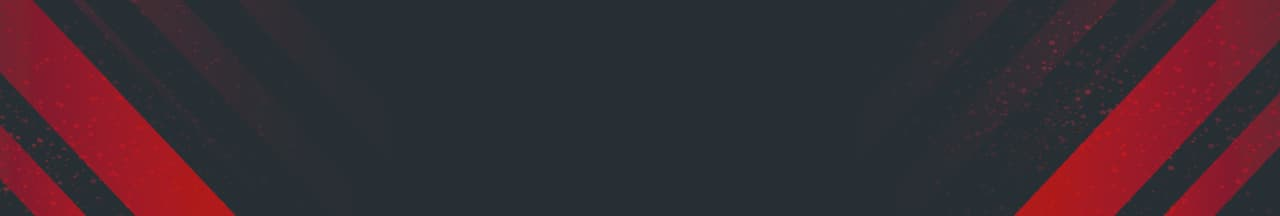
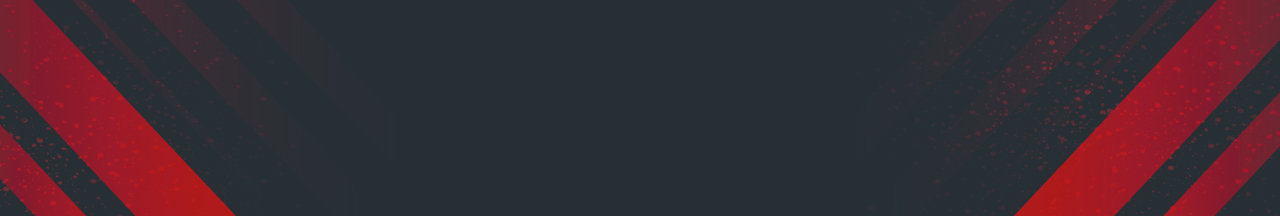
Preloader
Додав прилоадер. Оновив зображення хедера.

Changed region(s): [[0.0, 0.6667, 0.0312, 0.6944]]

diff --git a/src/index.html b/src/index.html
@@ -1,87 +1,106 @@
 <!DOCTYPE html>
 <html lang="en">
+  <head>
+    <meta charset="UTF-8" />
+    <meta http-equiv="X-UA-Compatible" content="IE=edge" />
 
-<head>
-  <meta charset="UTF-8" />
-  <meta http-equiv="X-UA-Compatible" content="IE=edge" />
+    <meta http-equiv="Permissions-Policy" content="interest-cohort=()" />
 
-  <meta http-equiv="Permissions-Policy" content="interest-cohort=()" />
+    <meta name="viewport" content="width=device-width, initial-scale=1.0" />
+    <title class="lng-logo">Filmoteka</title>
 
-  <meta name="viewport" content="width=device-width, initial-scale=1.0" />
-  <title class="lng-logo">Filmoteka</title>
+    <!-- Favicon -->
+    <link rel="shortcut icon" href="./images/icon/favico-2.png" />
 
-  <!-- Favicon -->
-  <link rel="shortcut icon" href="./images/icon/favico-2.png" />
+    <!-- Normalize -->
+    <link
+      rel="stylesheet"
+      href="https://cdnjs.cloudflare.com/ajax/libs/modern-normalize/1.1.0/modern-normalize.min.css"
+    />
 
-  <!-- Normalize -->
-  <link rel="stylesheet"
-    href="https://cdnjs.cloudflare.com/ajax/libs/modern-normalize/1.1.0/modern-normalize.min.css" />
+    <!-- Animate.css -->
+    <link
+      rel="stylesheet"
+      href="https://cdnjs.cloudflare.com/ajax/libs/animate.css/4.1.1/animate.min.css"
+    />
 
-  <!-- Animate.css -->
-  <link rel="stylesheet" href="https://cdnjs.cloudflare.com/ajax/libs/animate.css/4.1.1/animate.min.css" />
+    <!-- cssanimation.io -->
+    <link
+      href="https://cdn.jsdelivr.net/gh/yesiamrocks/cssanimation.io@1.0.3/cssanimation.min.css"
+      rel="stylesheet"
+    />
 
-  <!-- cssanimation.io -->
-  <link href="https://cdn.jsdelivr.net/gh/yesiamrocks/cssanimation.io@1.0.3/cssanimation.min.css" rel="stylesheet" />
+    <!-- FontAwesome, чтобы можно было использовать значок для нашей Back to top button -->
+    <link
+      rel="stylesheet"
+      href="https://maxcdn.bootstrapcdn.com/font-awesome/4.5.0/css/font-awesome.min.css"
+    />
 
-  <!-- FontAwesome, чтобы можно было использовать значок для нашей Back to top button -->
-  <link rel="stylesheet" href="https://maxcdn.bootstrapcdn.com/font-awesome/4.5.0/css/font-awesome.min.css" />
+    <!-- Style basicLightbox -->
+    <link
+      rel="stylesheet"
+      href="https://cdnjs.cloudflare.com/ajax/libs/basicLightbox/5.0.4/basicLightbox.min.css"
+    />
 
-  <!-- Style basicLightbox -->
-  <link rel="stylesheet" href="https://cdnjs.cloudflare.com/ajax/libs/basicLightbox/5.0.4/basicLightbox.min.css" />
+    <link rel="stylesheet" href="./sass/main.scss" />
 
-  <link rel="stylesheet" href="./sass/main.scss" />
+    <!-- Boxicons CSS -->
+    <link
+      href="https://unpkg.com/boxicons@2.1.2/css/boxicons.min.css"
+      rel="stylesheet"
+    />
+  </head>
 
-  <!-- Boxicons CSS -->
-  <link href="https://unpkg.com/boxicons@2.1.2/css/boxicons.min.css" rel="stylesheet" />
-</head>
+  <body>
+    <!-- Прелоадер -->
+    <div id="preloader" class="visible"></div>
+    <!-- =================================================================================================-->
+    <!-- Header -->
+    <include src="./partials/home-header.html"></include>
 
-<body>
-  <!-- =================================================================================================-->
-  <!-- Header -->
-  <include src="./partials/home-header.html"></include>
+    <!-- Login -->
+    <include src="./partials/signup-modal.html"></include>
 
-  <!-- Login -->
-  <include src="./partials/signup-modal.html"></include>
+    <!-- Main -->
+    <main class="main">
+      <div class="container">
+        <!-- Slider upcoming -->
+        <include src="./partials/slider-upcoming.html"></include>
 
-  <!-- Main -->
-  <main class="main">
-    <div class="container">
-      <!-- Slider upcoming -->
-      <include src="./partials/slider-upcoming.html"></include>
-
-      <!-- Gallery -->
-      <div class="gallery-conteiner">
-        <h2 class="main-title">Популярні:</h2>
-        <div class="gallery"></div>
+        <!-- Gallery -->
+        <div class="gallery-conteiner">
+          <h2 class="main-title">Популярні:</h2>
+          <div class="gallery"></div>
+        </div>
       </div>
-    </div>
 
-    <button class="loadMoreBtn" type="button">Load more</button>
-    <button class="loadMoreSearchBtn visually-hidden" type="button">
-      Load more
-    </button>
+      <button class="loadMoreBtn" type="button">Load more</button>
+      <button class="loadMoreSearchBtn visually-hidden" type="button">
+        Load more
+      </button>
 
-    <!-- Pagination -->
-    <div id="pagination" class="tui-pagination"></div>
-  </main>
+      <!-- Pagination -->
+      <div id="pagination" class="tui-pagination"></div>
+    </main>
 
-  <!-- Footer -->
-  <include src="./partials/footer.html"></include>
+    <!-- Footer -->
+    <include src="./partials/footer.html"></include>
 
-  <!-- Modal -->
-  <div class="backdrop is-hidden" data-modal></div>
+    <!-- Modal -->
+    <div class="backdrop is-hidden" data-modal></div>
 
-  <!-- Back to top button -->
-  <a id="back-to-top"></a>
-  <!-- ================================================================================================== -->
+    <!-- Back to top button -->
+    <a id="back-to-top"></a>
+    <!-- ================================================================================================== -->
 
-  <!-- cssanimation.io -->
-  <script type="text/javascript"
-    src="https://cdn.jsdelivr.net/gh/yesiamrocks/cssanimation.io@1.0.3/letteranimation.min.js"></script>
+    <!-- cssanimation.io -->
+    <script
+      type="text/javascript"
+      src="https://cdn.jsdelivr.net/gh/yesiamrocks/cssanimation.io@1.0.3/letteranimation.min.js"
+    ></script>
 
-  <!-- jQuery library for "Back to top" button -->
-  <script src="https://ajax.googleapis.com/ajax/libs/jquery/3.6.0/jquery.min.js"></script>
-  <script src="index.js" type="module"></script>
-</body>
-
+    <!-- jQuery library for "Back to top" button -->
+    <script src="https://ajax.googleapis.com/ajax/libs/jquery/3.6.0/jquery.min.js"></script>
+    <script src="index.js" type="module"></script>
+  </body>
 </html>

diff --git a/src/sass/components/_preloader.scss b/src/sass/components/_preloader.scss
@@ -1,0 +1,24 @@
+#preloader {
+  position: fixed;
+  left: 0;
+  top: 0;
+  z-index: 999;
+  width: 100%;
+  height: 100%;
+  overflow: visible;
+  background: #ffffff
+    url('https://powping.com/file/9c3a26bb37764d887fcef6646e4f237aa7995a2a21abdfb6e0591d87d063bc65')
+    no-repeat center center;
+}
+
+.visible {
+  visibility: visible;
+  opacity: 1;
+  transition: opacity 2s linear;
+}
+
+.hidden {
+  visibility: hidden;
+  opacity: 0;
+  transition: visibility 0s 2s, opacity 2s linear;
+}

diff --git a/src/sass/main.scss b/src/sass/main.scss
@@ -1,6 +1,7 @@
 @import './utils/variables';
 @import './utils/placeholders';
 @import './base/common';
+@import './components/preloader';
 @import './components/page-header';
 @import './components/fullscreen-btn';
 @import './components/library-header';
@@ -16,4 +17,3 @@
 @import './components/localization';
 @import './components/glide.core';
 @import './components/glide.theme';
-

diff --git a/src/index.js b/src/index.js
@@ -2,7 +2,7 @@ import { entryField } from './js/searchFilms';
 import { onCardClick, onUpcomingClick } from './js/onCardClick';
 import { backToTop } from './js/backToTop';
 import { renderUpcoming } from './js/renderUpcoming';
-
+import { loadData } from './js/preloader';
 import { onUpcomingClick } from './js/onUpcomingClick';
 import { fullscreenToggle } from './js/fullscreen';
 

diff --git a/src/js/preloader.js b/src/js/preloader.js
@@ -1,0 +1,11 @@
+export function loadData() {
+  return new Promise((resolve, reject) => {
+    setTimeout(resolve, 500);
+  });
+}
+
+loadData().then(() => {
+  let preloaderEl = document.getElementById('preloader');
+  preloaderEl.classList.add('hidden');
+  preloaderEl.classList.remove('visible');
+});

diff --git a/src/sass/components/_page-header.scss b/src/sass/components/_page-header.scss
@@ -1,5 +1,5 @@
 header {
-  background-size: cover;
+  background-size: contain;
   background-repeat: no-repeat;
 
   // mobile img
